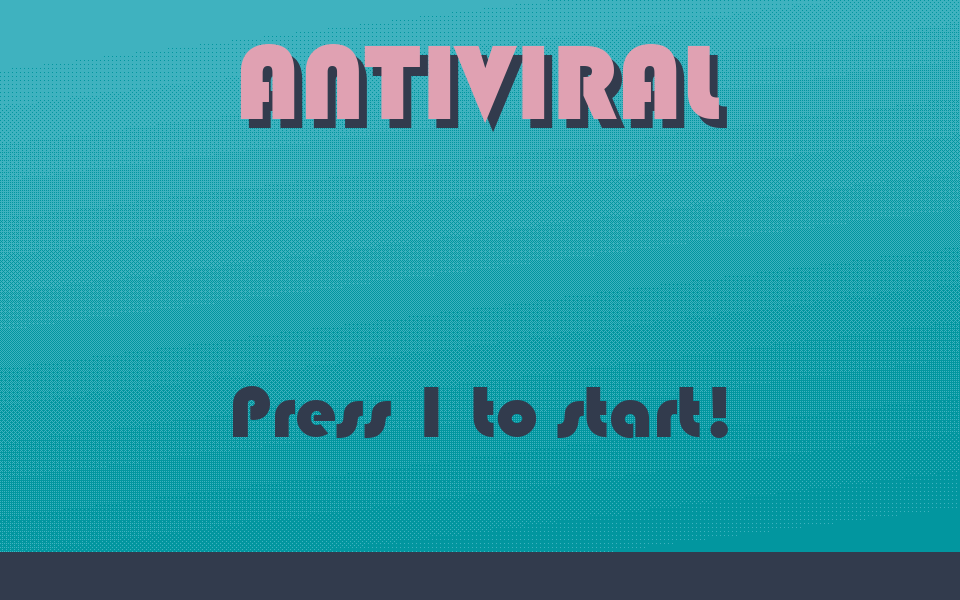
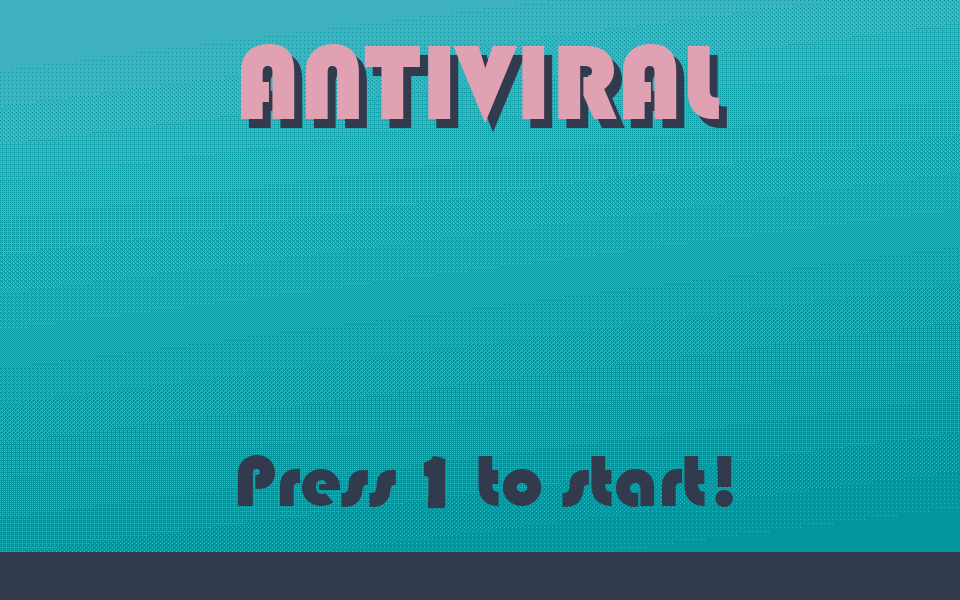
life fixes
better 1 font, bright baddie

Changed region(s): [[0.25, 0.63, 0.7812, 0.87], [0.2188, 0.63, 0.4062, 0.75]]

diff --git a/BoidBox/BoidBox/Obstacle.cpp b/BoidBox/BoidBox/Obstacle.cpp
@@ -22,7 +22,7 @@ Obstacle::Obstacle(Transform* _transform, const BoidList* _boidList, int _totalB
 	if (_transform && _boidList)
 	{
 		sprite = CreateSprite();
-		openMesh = SquareMesh(0.5f, 0.5f, 1.0f, 1.0f, "Obstacle", { 0.19f, 0.43f, 0.59f, 1.0f });
+		openMesh = SquareMesh(0.5f, 0.5f, 1.0f, 1.0f, "Obstacle", { 0.80f, 0.20f, 0.30f, 1.0f });
 		endMesh = SquareMesh(0.5f, 0.5f, 1.0f, 1.0f, "Complete", { 1.0f, 0.0f, 0.0f, 1.0f });
 		SpriteSetMesh(sprite, openMesh);
 		//SpriteSource* texture = CreateSpriteSource();
